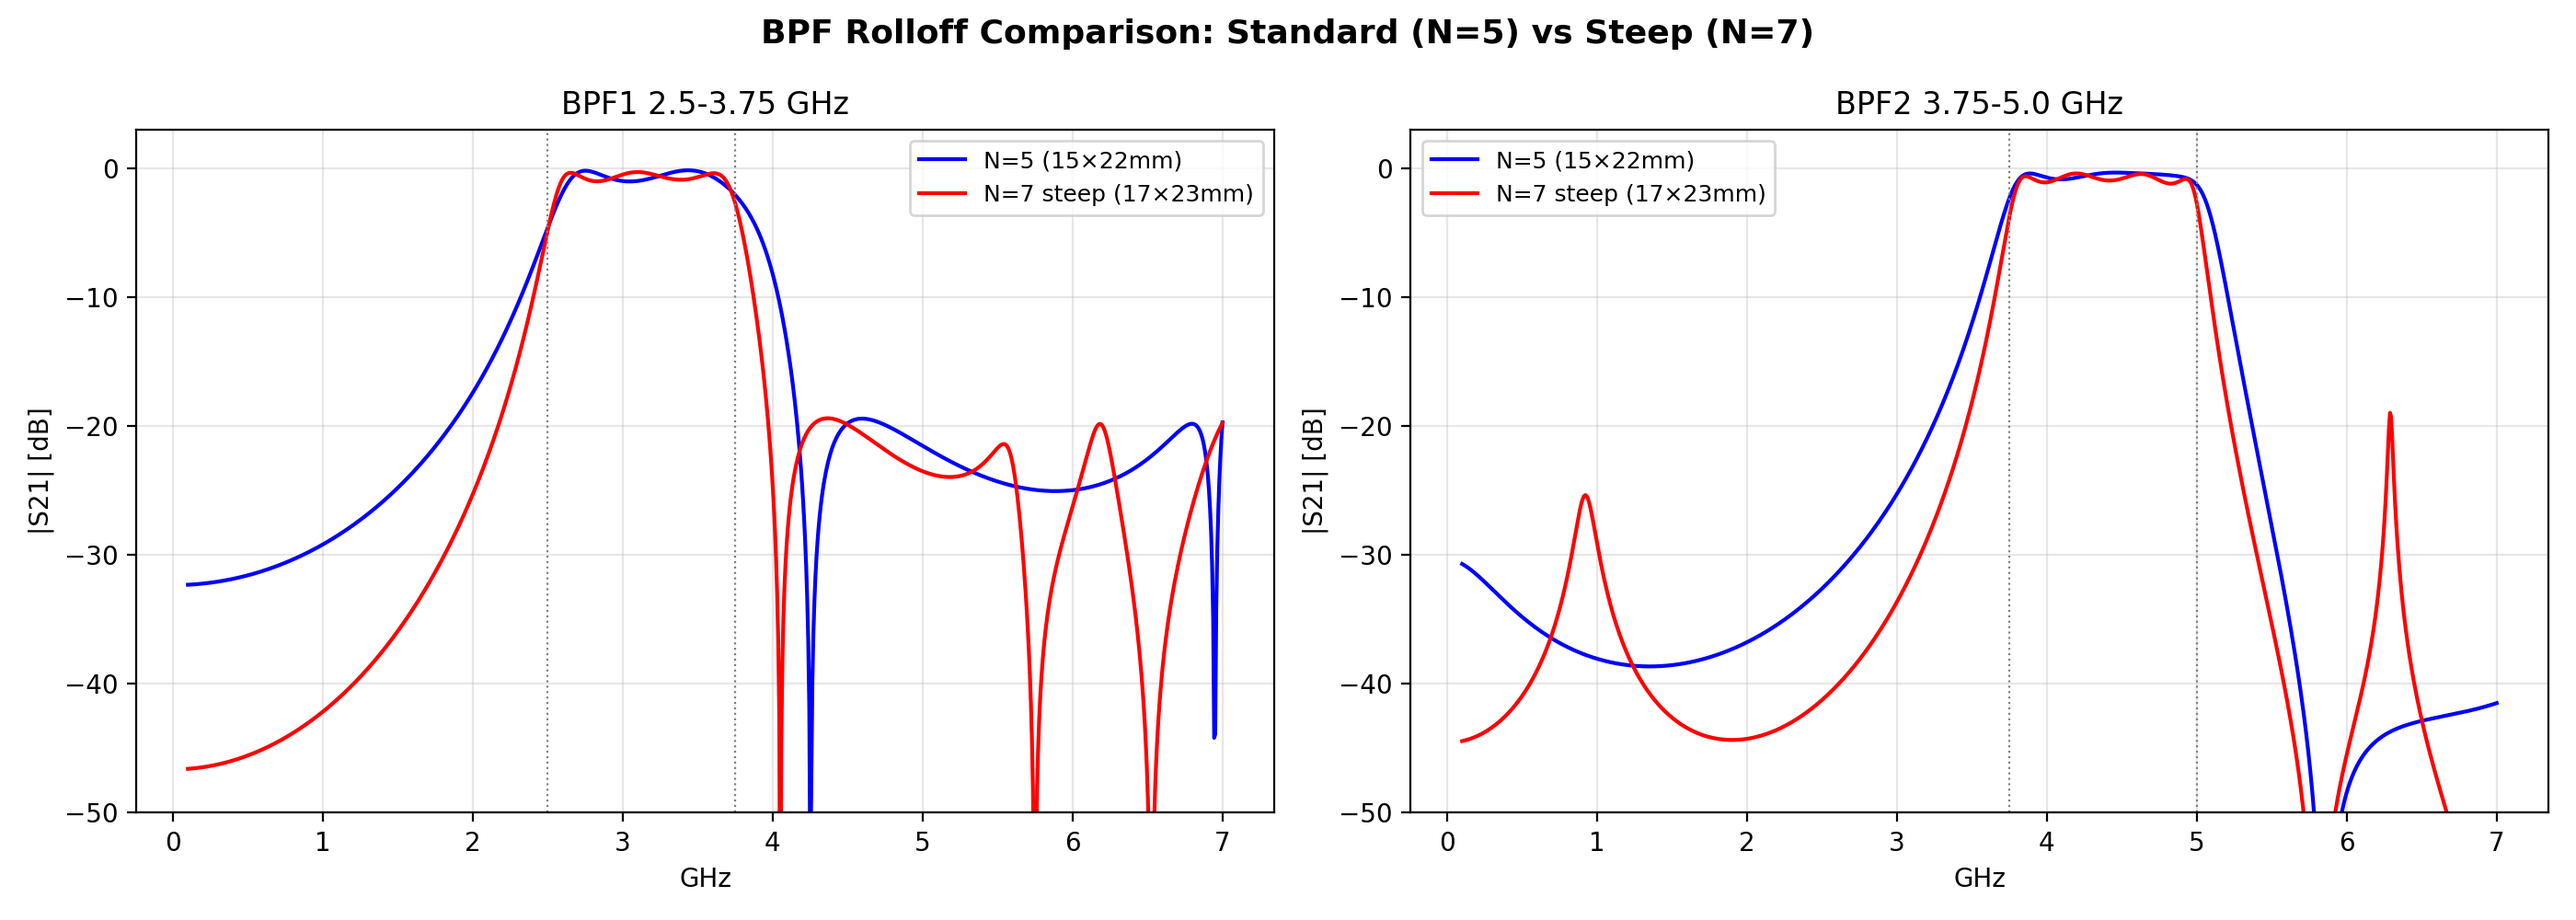
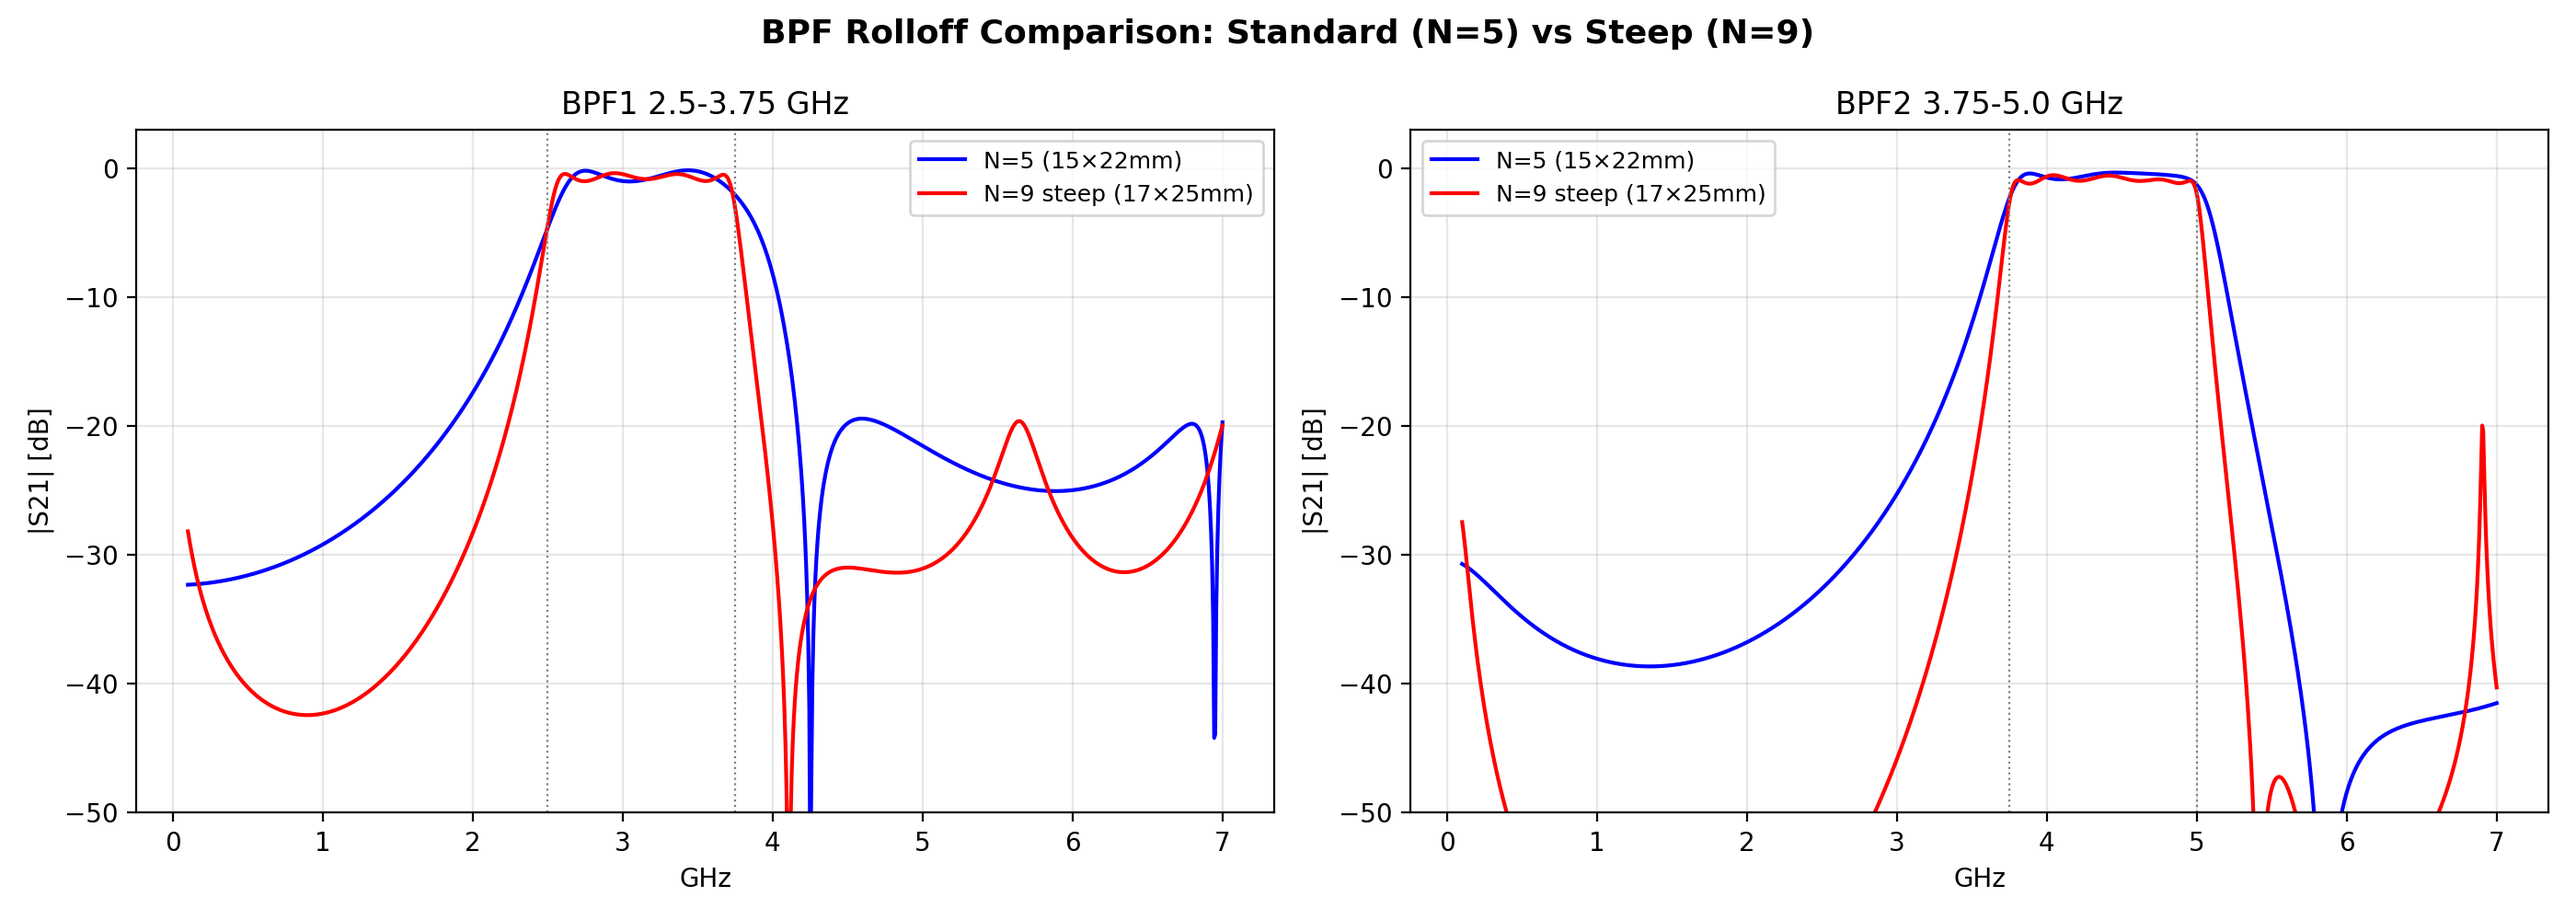
N=9 steep rolloff, fix pad connections, wave propagation GIFs
Three fixes:

1) Steep variant upgraded to N=9 (was N=7):
   9th-order Chebyshev gives ~54 dB/octave rolloff (was ~42)
   Guard band tightened to 0.12 BW (was 0.15)
   Board: 17×25mm, BPF1 IL 0.4-4.2 dB, BPF2 IL 0.5-2.4 dB

2) Feedline-to-pad connections fixed:
   Meander paths now start at x=0 (left edge pad) and end at
   x=BW (right edge pad), with explicit connecting segments.
   Previously traces started at x=EDGE_PAD leaving a gap.

3) Wave propagation GIFs added (ABCD transfer-matrix model):
   board_standard_wave.gif — N=5 BPF1, passband vs stopband
   board_steep_wave.gif — N=9 BPF1, passband vs stopband
   Each shows forward+backward wave superposition at passband
   and stopband frequencies, animated over one RF period.
   Not using fdtdx (full 3D FDTD is overkill for this circuit
   model — the ABCD cascade gives the same S-parameters).

Output: 6 PNGs + 2 GIFs = 8 files

diff --git a/shape_filter_bank.py b/shape_filter_bank.py
@@ -182,6 +182,7 @@ def _hpf_loss(p, freqs):
 #  BPF — Stub-loaded (parameterised order)
 # ═══════════════════════════════════════════════════════════════════════
 CHEBY_G7 = [1.0, 1.7372, 1.2583, 2.6381, 1.3444, 2.6381, 1.2583, 1.7372, 1.0]
+CHEBY_G9 = [1.0, 1.7504, 1.2690, 2.6678, 1.3673, 2.7239, 1.3673, 2.6678, 1.2690, 1.7504, 1.0]
 
 def _bpf_bounds(n):
     return [(n, 1e-3, 10e-3), (n, 1e-3, 10e-3), (n, 25., 120.), (n + 1, 0.01, 2.0)]
@@ -268,9 +269,10 @@ CU = "#c8882e"; CU_DARK = "#a06820"; SUBSTRATE = "#1a1a2e"
 VIA_C = "#ccb060"; SOLDER = "#d4d4d4"
 
 def _meander_pts(x0, y0, segs, bw):
+    """Meander trace from left edge pad to right edge pad."""
     x_min, x_max = EDGE_PAD, bw - EDGE_PAD
     x, y, dx = x0, y0, 1
-    pts = [(x, y)]
+    pts = [(0, y), (x, y)]
     for s in segs:
         left = s
         while left > 0.05:
@@ -280,6 +282,7 @@ def _meander_pts(x0, y0, segs, bw):
             x += step * dx; pts.append((x, y)); left -= step
             if left > 0.05:
                 y -= FOLD_GAP; pts.append((x, y)); dx = -dx
+    pts.append((bw, pts[-1][1]))
     return pts
 
 def _draw_trace(ax, pts, w, color=CU, z=3):
@@ -484,22 +487,22 @@ def main():
         freqs, fp, f_ghz, db, f1l, f1h, f2l, f2h)
     generated.extend(g1)
 
-    # Board 2: Steep rolloff (N=7, 0.15 guard)
+    # Board 2: Steep rolloff (N=9, 0.12 guard — very steep crossover)
     g2, s21b1_stp, s11b1_stp, s21b2_stp, s11b2_stp, bw2, bh2 = _design_board(
-        "Steep Rolloff (N=7)", "board_steep",
-        7, CHEBY_G7, 0.15, p_hpf, hpf_data,
+        "Steep Rolloff (N=9)", "board_steep",
+        9, CHEBY_G9, 0.12, p_hpf, hpf_data,
         freqs, fp, f_ghz, db, f1l, f1h, f2l, f2h)
     generated.extend(g2)
 
     # Comparison overlay
     fig, axes = plt.subplots(1, 2, figsize=(14, 5))
-    fig.suptitle("BPF Rolloff Comparison: Standard (N=5) vs Steep (N=7)", fontsize=13, fontweight="bold")
+    fig.suptitle("BPF Rolloff Comparison: Standard (N=5) vs Steep (N=9)", fontsize=13, fontweight="bold")
     for ax, s21_s, s21_st, title, vl in [
         (axes[0], s21b1_std, s21b1_stp, "BPF1 2.5-3.75 GHz", [2.5, 3.75]),
         (axes[1], s21b2_std, s21b2_stp, "BPF2 3.75-5.0 GHz", [3.75, 5.0]),
     ]:
         ax.plot(f_ghz, db(s21_s), "b", lw=1.5, label=f"N=5 ({bw1:.0f}×{bh1:.0f}mm)")
-        ax.plot(f_ghz, db(s21_st), "r", lw=1.5, label=f"N=7 steep ({bw2:.0f}×{bh2:.0f}mm)")
+        ax.plot(f_ghz, db(s21_st), "r", lw=1.5, label=f"N=9 steep ({bw2:.0f}×{bh2:.0f}mm)")
         ax.set_title(title); ax.set_xlabel("GHz"); ax.set_ylabel("|S21| [dB]")
         ax.set_ylim(-50, 3); ax.legend(fontsize=9); ax.grid(True, alpha=0.3)
         for fv in vl: ax.axvline(fv, color="gray", ls=":", lw=0.8)
@@ -507,7 +510,7 @@ def main():
     fig.savefig("board_rolloff_comparison.png", dpi=200); plt.close(fig)
     generated.append("board_rolloff_comparison.png")
 
-    # Stackup (shared)
+    # Stackup
     fig_s, ax_s = plt.subplots(figsize=(10, 5))
     ax_s.set_title("6-Layer Stackup", fontsize=13, fontweight="bold")
     stack = [
@@ -518,23 +521,89 @@ def main():
         ("L5 BPF2 stripline", 18e-6, "#9b59b6"), ("RO4450F er=3.52", H_SL, "#ecf0f1"),
         ("L6 Ground", 35e-6, "#27ae60"),
     ]
-    y = 0
+    y_s = 0
     for label_s, t, c in reversed(stack):
-        h = max(t*1e3, 0.015)
-        ax_s.add_patch(Rectangle((1,y),8,h,fc=c,ec="#333",lw=0.8))
-        ax_s.text(9.3, y+h/2, label_s, va="center", fontsize=8, fontfamily="monospace")
-        y += h
-    ax_s.set_xlim(0,20); ax_s.set_ylim(-0.02,y+0.04); ax_s.set_ylabel("mm"); ax_s.set_xticks([])
-    ax_s.text(5, y+0.025, f"Total: {TOTAL_H*1e3:.2f} mm", ha="center", fontsize=11, fontweight="bold")
+        h = max(t * 1e3, 0.015)
+        ax_s.add_patch(Rectangle((1, y_s), 8, h, fc=c, ec="#333", lw=0.8))
+        ax_s.text(9.3, y_s + h / 2, label_s, va="center", fontsize=8, fontfamily="monospace")
+        y_s += h
+    ax_s.set_xlim(0, 20); ax_s.set_ylim(-0.02, y_s + 0.04)
+    ax_s.set_ylabel("mm"); ax_s.set_xticks([])
+    ax_s.text(5, y_s + 0.025, f"Total: {TOTAL_H * 1e3:.2f} mm", ha="center", fontsize=11, fontweight="bold")
     fig_s.tight_layout(); fig_s.savefig("board_stackup.png", dpi=200); plt.close(fig_s)
     generated.append("board_stackup.png")
 
+    # ── Wave propagation GIFs (ABCD transfer-matrix field profile) ──
+    import matplotlib.animation as animation
+    from matplotlib.colors import TwoSlopeNorm
+
+    def _wave_gif(s21_bpf, label, fname, f_pass, f_stop):
+        """Animate EM wavefronts through a BPF using ABCD field profile."""
+        n_x = 300; n_frames = 40; fps = 10
+        x_mm = np.linspace(0, 20, n_x)
+
+        def _field(f_hz, s21_at_f):
+            s21_mag = float(np.abs(s21_at_f))
+            s11_mag = float(np.sqrt(max(1 - s21_mag ** 2, 0)))
+            beta = 2 * np.pi * f_hz * np.sqrt(ER_SL) / C0
+            fwd = np.exp(-1j * beta * x_mm * 1e-3)
+            bwd = s11_mag * np.exp(1j * beta * x_mm * 1e-3)
+            return fwd + bwd
+
+        s21_pass_idx = int(f_pass / 7e9 * len(s21_bpf))
+        s21_stop_idx = int(f_stop / 7e9 * len(s21_bpf))
+        s21_pass_val = s21_bpf[min(s21_pass_idx, len(s21_bpf) - 1)]
+        s21_stop_val = s21_bpf[min(s21_stop_idx, len(s21_bpf) - 1)]
+
+        V_pass = _field(f_pass, s21_pass_val)
+        V_stop = _field(f_stop, s21_stop_val)
+
+        fig_g, axes_g = plt.subplots(2, 1, figsize=(10, 4))
+        fig_g.suptitle(f"{label} — Wave Propagation", fontsize=12, fontweight="bold")
+
+        vmax = max(np.max(np.abs(np.real(V_pass))), np.max(np.abs(np.real(V_stop))), 0.1)
+
+        ims = []
+        for ax_g, title in zip(axes_g, [f"Passband {f_pass/1e9:.1f} GHz", f"Stopband {f_stop/1e9:.1f} GHz"]):
+            ax_g.set_xlim(x_mm[0], x_mm[-1]); ax_g.set_ylim(-vmax * 1.2, vmax * 1.2)
+            ax_g.set_ylabel(title, fontsize=8); ax_g.grid(True, alpha=0.2)
+            if ax_g == axes_g[-1]: ax_g.set_xlabel("Position [mm]")
+
+        line_p, = axes_g[0].plot([], [], "b", lw=1.5)
+        line_s, = axes_g[1].plot([], [], "r", lw=1.5)
+
+        def _update(frame):
+            t = frame / n_frames * (1 / f_pass)
+            omega_p = 2 * np.pi * f_pass
+            omega_s = 2 * np.pi * f_stop
+            line_p.set_data(x_mm, np.real(V_pass * np.exp(1j * omega_p * t)))
+            line_s.set_data(x_mm, np.real(V_stop * np.exp(1j * omega_s * t)))
+            return line_p, line_s
+
+        _update(0)
+        ani = animation.FuncAnimation(fig_g, _update, frames=n_frames, interval=1000 // fps, blit=True)
+        try:
+            ani.save(fname, writer=animation.PillowWriter(fps=fps))
+            print(f"  [saved] {fname}")
+        except Exception as e:
+            print(f"  GIF failed: {e}")
+            fname = None
+        plt.close(fig_g)
+        return fname
+
+    print("\n  Generating wave propagation GIFs...")
+    gf = _wave_gif(s21b1_std, "Standard BPF1 (N=5)", "board_standard_wave.gif", 3.1e9, 1.5e9)
+    if gf: generated.append(gf)
+    gf = _wave_gif(s21b1_stp, "Steep BPF1 (N=9)", "board_steep_wave.gif", 3.1e9, 1.5e9)
+    if gf: generated.append(gf)
+
     print("\n" + "=" * 64)
-    print("  OUTPUT IMAGES")
+    print("  OUTPUT FILES")
     print("=" * 64)
     for img in generated:
         sz = os.path.getsize(img) / 1024
-        print(f"  {img:40s}  {sz:6.0f} KB  OK")
+        ext = os.path.splitext(img)[1]
+        print(f"  {img:40s}  {sz:6.0f} KB  {ext}")
     print("=" * 64)
     print("  Complete.")
     print("=" * 64)
